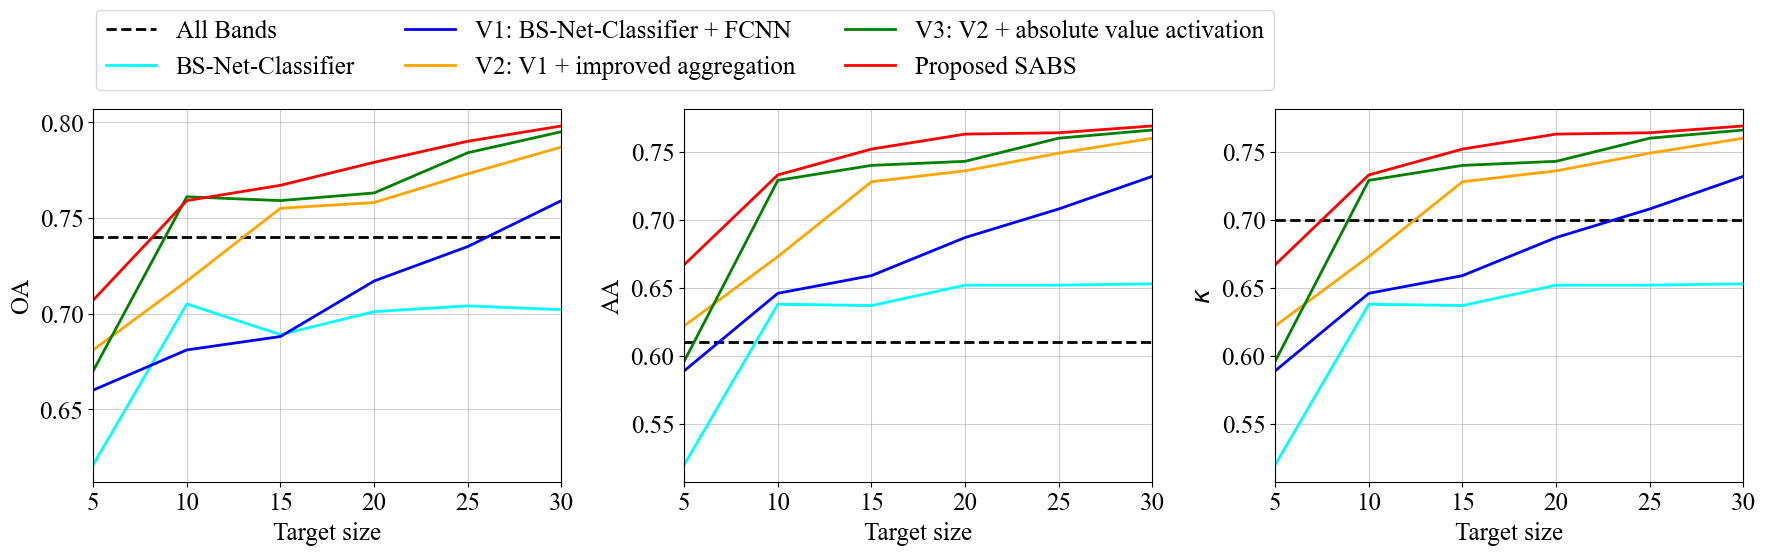
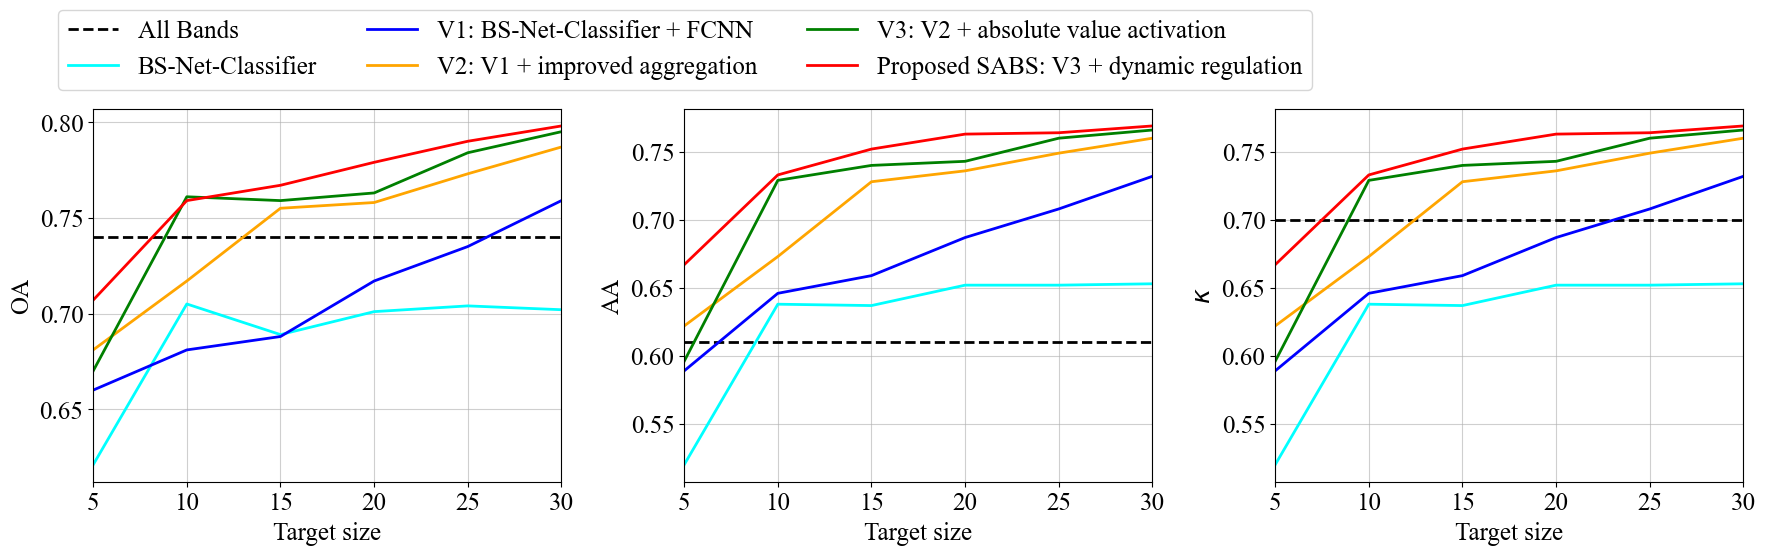
done

Changed region(s): [[0.0311, 0.0306, 0.7475, 0.1532]]

diff --git a/1_ablation_sabs_cl.py b/1_ablation_sabs_cl.py
@@ -29,7 +29,7 @@ ALGS = {
     "v1": "V1: BS-Net-Classifier + FCNN",
     "v2": "V2: V1 + improved aggregation",
     "v6": "V3: V2 + absolute value activation",
-    "v9": "Proposed SABS",
+    "v9": "Proposed SABS: V3 + dynamic regulation",
     "bsdr": "Proposed BSDR"
 }
 
